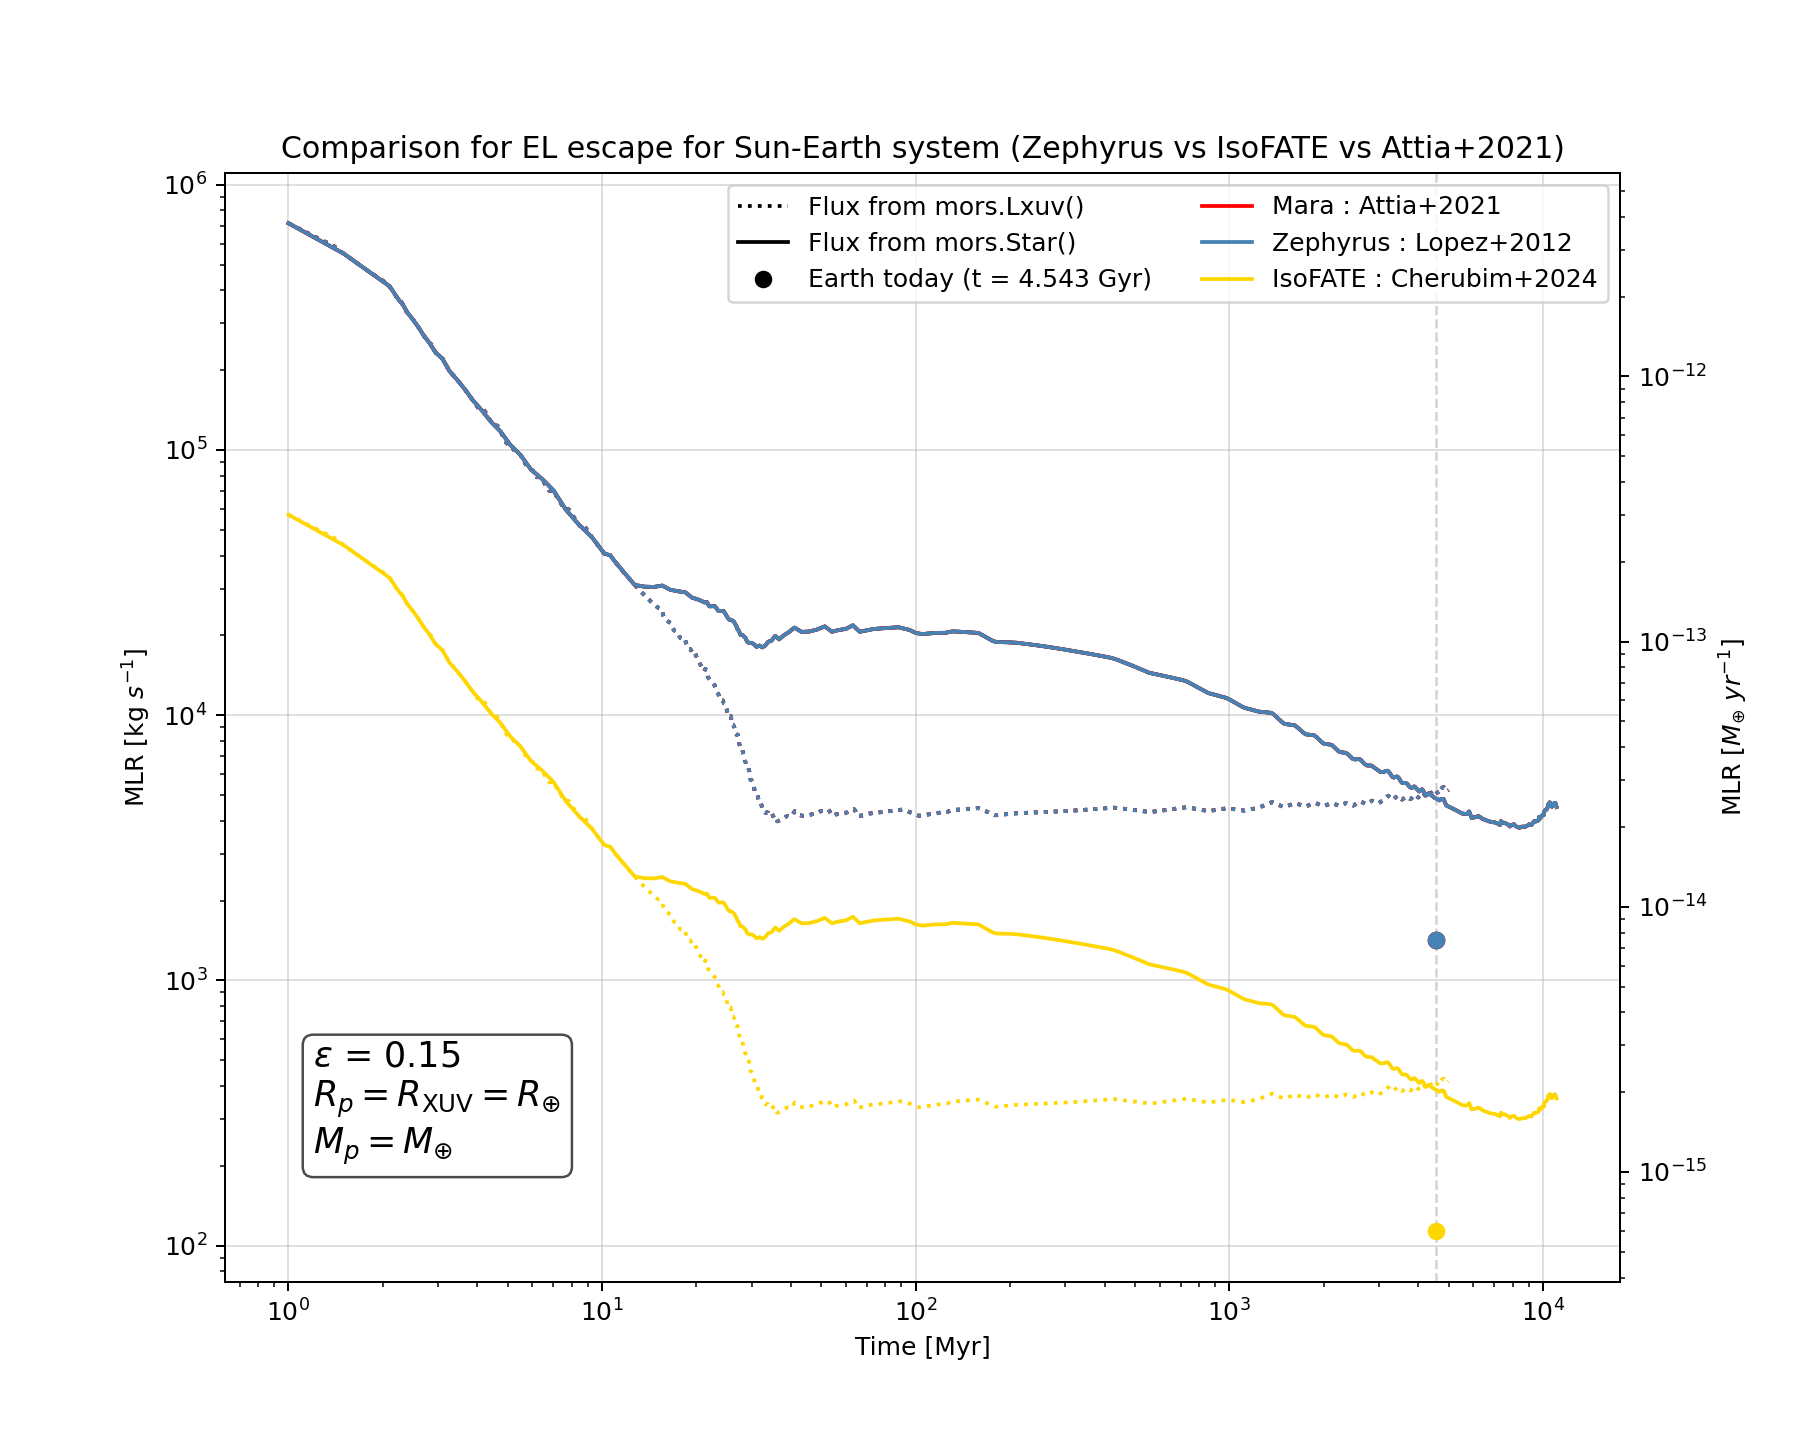
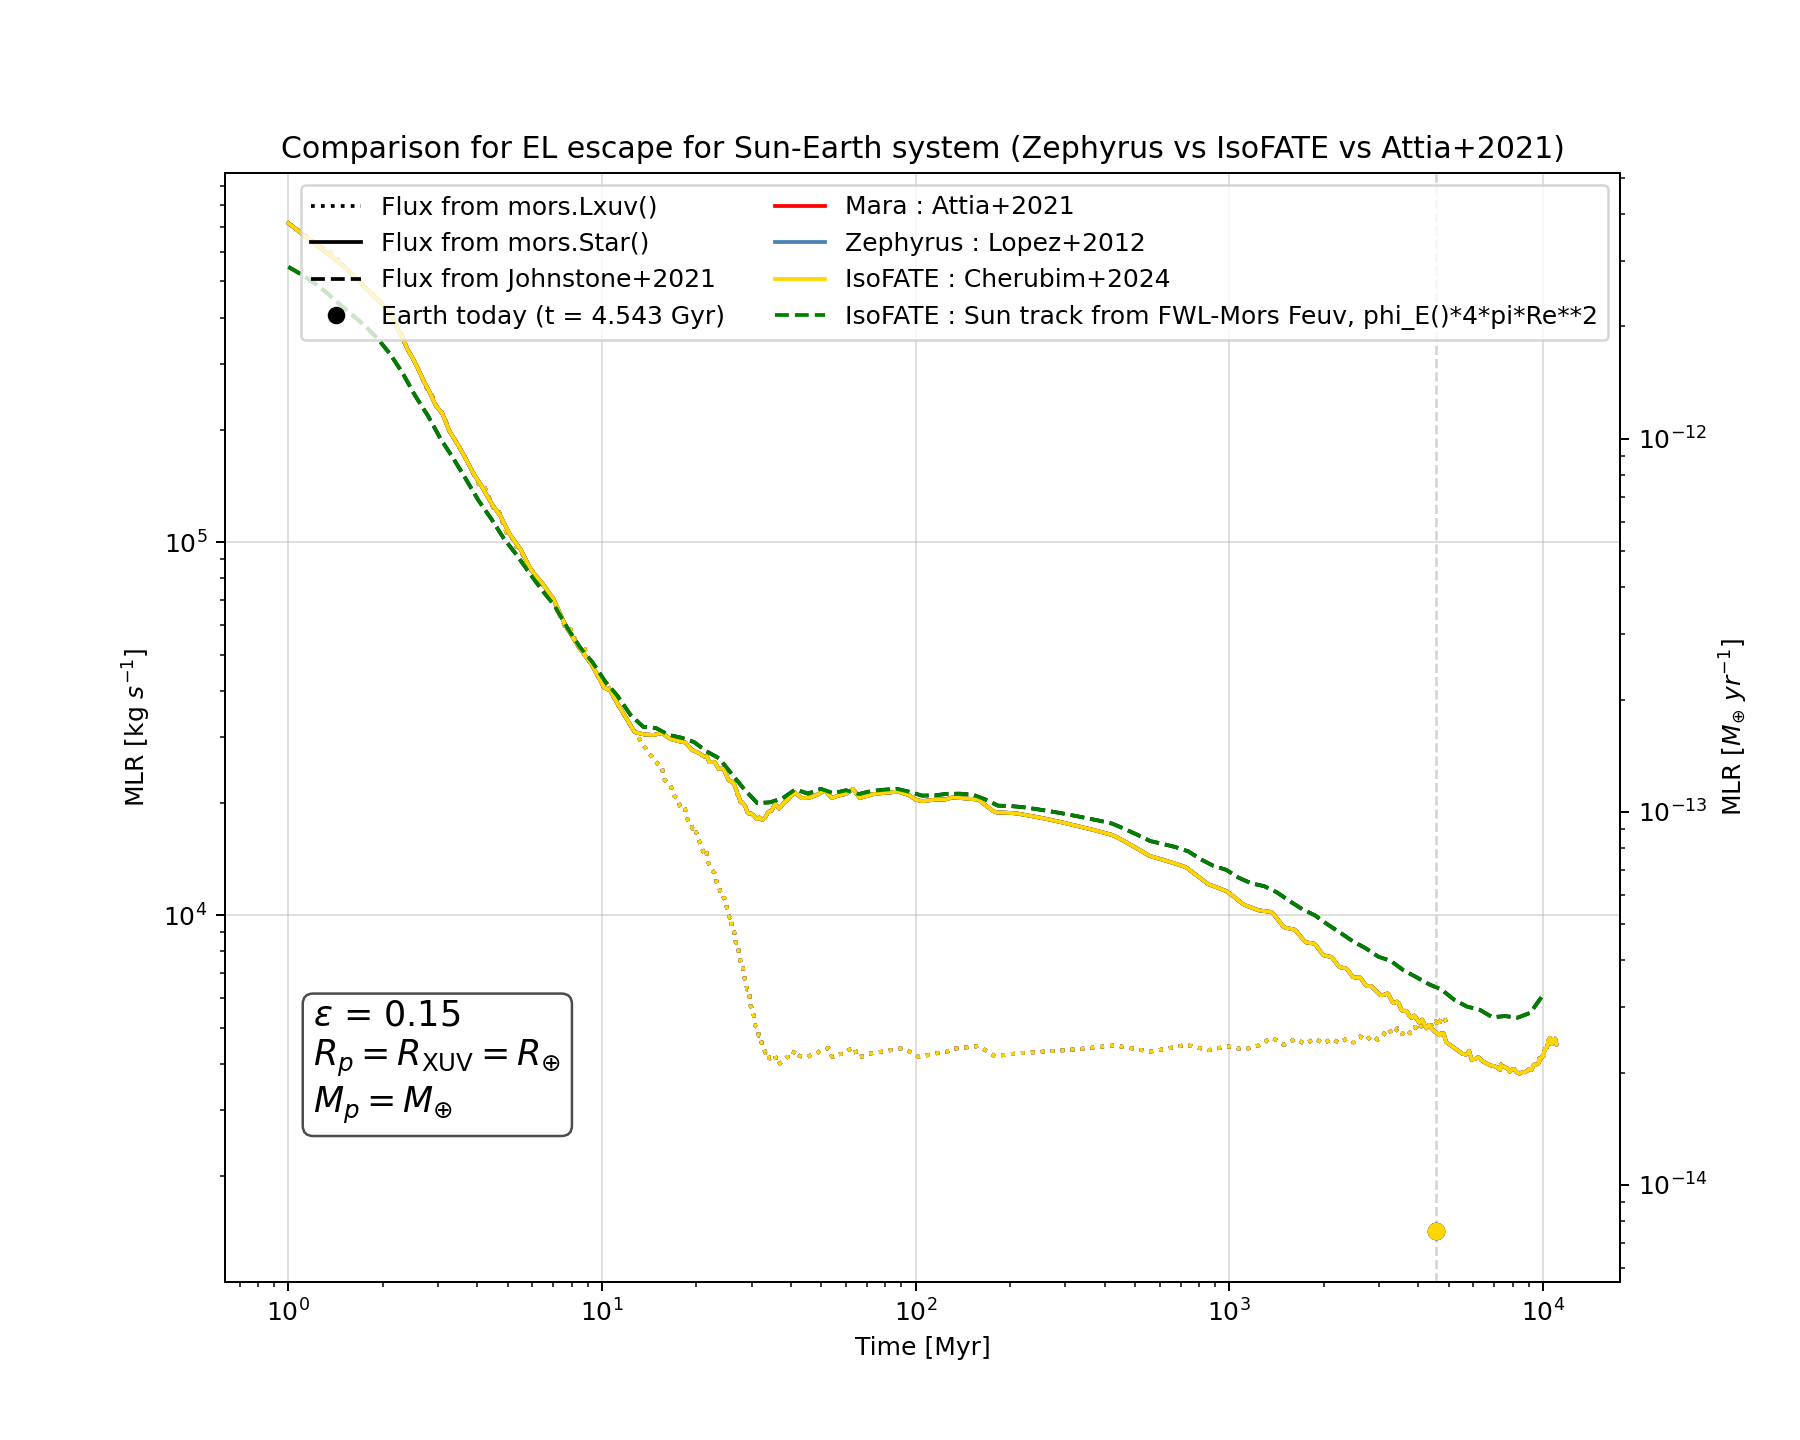
Comparison EL escape for Earth Mara/IsoFATE/Zephyrus -- still need to clean repository

diff --git a/draft_scripts/Comparison_escape/plot_MLR_comparison_attia_isofate.py b/draft_scripts/Comparison_escape/plot_MLR_comparison_attia_isofate.py
@@ -46,10 +46,20 @@ data_Star_isofate = np.loadtxt(data_dir + 'MLR_computation_Cherubim+2024_with_St
 Time_Star_isofate = data_Star_isofate[:, 0] 
 MLR_Star_isofate = data_Star_isofate[:, 1] 
 
+data_isofate_sun = np.loadtxt(data_dir+'MLR_isofate_sun.txt')
+time_myr_isofate_sun = data_isofate_sun[:, 0] 
+escape_mlr_isofate_sun = data_isofate_sun[:, 2] 
+
+data_isofate_G5 = np.loadtxt(data_dir+'MLR_isofate_G5.txt')
+time_myr_isofate_G5 = data_isofate_G5[:, 0] 
+escape_mlr_isofate_G5 = data_isofate_G5[:, 2]
+
+
 MLR_earth_today_zephyrus = dMdt_EL_Lopez2012('no',a_earth*au2m,e_earth,Me,Ms,0.15,Re,Fxuv_earth_today)
 MLR_earth_today_mara = dMdt_EL_Attia2021('no',a_earth*au2cm,e_earth,Me*1e3,Ms*1e3,Re*1e2,Re*1e2,((Fxuv_earth_today/ergcm2stoWm2)*4*np.pi*au2cm**2),Fxuv_earth_today/ergcm2stoWm2,0.15,'no')
-Vpot = (G*Me)/(Re**3)
-MLR_earth_today_isofate = 0.15*Fxuv_earth_today/(4*Vpot)
+Vpot = G*Me/Re
+MLR_earth_today_isofate = (0.15*Fxuv_earth_today/(4*Vpot)) * 4 * np.pi * Re**2
+
 
 # Create the plot
 fig, ax1 = plt.subplots(figsize=(10, 8))
@@ -57,19 +67,21 @@ fig, ax1 = plt.subplots(figsize=(10, 8))
 # Plotting the data on the primary y-axis
 ax1.loglog(Time_Lxuv_mara, MLR_Lxuv_mara, ':', color='black', label='Flux from mors.Lxuv()')
 ax1.loglog(Time_Star_mara, MLR_Star_mara, color='black', label='Flux from mors.Star()',)
+ax1.loglog(time_myr_isofate_sun, escape_mlr_isofate_sun, '--', color='black', label='Flux from Johnstone+2021')
 ax1.axvline(x=age_earth/1e6, color='lightgrey', linestyle='--', linewidth=1)
 ax1.loglog(age_earth/1e6, MLR_earth_today_zephyrus,'o', color='black', label='Earth today (t = 4.543 Gyr)')
 ax1.loglog(age_earth/1e6, MLR_earth_today_mara/1e3,'o', color='red')
 ax1.loglog(age_earth/1e6, MLR_earth_today_zephyrus,'o', color='steelblue')
 ax1.loglog(age_earth/1e6, MLR_earth_today_isofate,'o', color='gold')
-#ax1.loglog(age_earth/1e6, 1423.221809,'o', color='green')
 ax1.loglog(Time_Lxuv_mara, MLR_Lxuv_mara, ':', color='red')
 ax1.loglog(Time_Lxuv_zephyrus, MLR_Lxuv_zephyrus,':', color='steelblue')
-ax1.loglog(Time_Lxuv_isofate, MLR_Lxuv_isofate,':', color='gold')
+ax1.loglog(Time_Lxuv_isofate, MLR_Lxuv_isofate * 4 * np.pi,':', color='gold') 
 ax1.loglog(Time_Star_mara, MLR_Star_mara, color='red', label='Mara : Attia+2021')
 ax1.loglog(Time_Star_zephyrus, MLR_Star_zephyrus, color='steelblue', label='Zephyrus : Lopez+2012')
-ax1.loglog(Time_Star_isofate, MLR_Star_isofate, color='gold', label='IsoFATE : Cherubim+2024')
+ax1.loglog(Time_Star_isofate, MLR_Star_isofate * 4 * np.pi , color='gold', label='IsoFATE : Cherubim+2024')
 
+ax1.loglog(time_myr_isofate_sun, escape_mlr_isofate_sun, '--', color='green', label='IsoFATE : Sun track from FWL-Mors Feuv, phi_E()*4*pi*Re**2')
+#ax1.loglog(time_myr_isofate_G5, escape_mlr_isofate_G5, '--', color='darkseagreen', label='IsoFATE : G5 track from Johnstone, phi_E()*Re**2')
 
 
 # Adding labels and title for primary y-axis
@@ -93,7 +105,7 @@ ax2.set_ylabel(r'MLR [$M_{\oplus}$ $yr^{-1}$]')
 textstr = r'$\epsilon$ = 0.15' '\n' r'$R_p = R_{\mathrm{XUV}} = R_{\oplus}$' '\n' r'$M_p = M_{\oplus}$'
 props = dict(boxstyle='round', facecolor='white', alpha=0.7)
 # Place the text box in the upper left corner of the plot
-ax1.text(1.2, 6e2, textstr, fontsize=14,
+ax1.text(1.2, 6e3, textstr, fontsize=14,
          verticalalignment='top', bbox=props)
 
 # Saving the plot

diff --git a/src/zephyrus/escape.py b/src/zephyrus/escape.py
@@ -41,7 +41,7 @@ def dMdt_EL_Lopez2012(tidal_contribution,a,e,Mp,Ms,epsilon,Rxuv,Fxuv):
 
     # Mass-loss rate for EL escape
     escape_EL = (epsilon * np.pi * (Rxuv**3) * Fxuv) / (G * Mp * K_tide)
-    
+    #escape_EL = (epsilon * (Rxuv**3) * Fxuv) / (4 * G * Mp * K_tide)
     return escape_EL
 
 def dMdt_EL_Attia2021(tidal_contribution,a,e,Mp,Ms,Rp,Rxuv,Lxuv,Fxuv,epsilon,orbit_effect):
